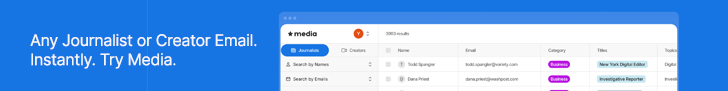
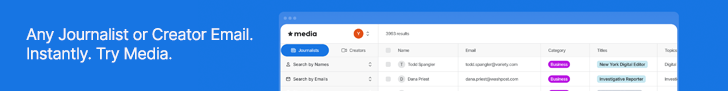
Changes

Changed region(s): [[0.0302, 0.3077, 0.3626, 0.7473]]

diff --git a/src/pages/Home.tsx b/src/pages/Home.tsx
@@ -32,7 +32,6 @@ import { OrganizationSchema, WebSiteSchema, FAQSchema } from '@/components/JsonL
 import { SponsorBanner } from '@/components/SponsorBanner';
 import { ThisWeekHighlights } from '@/components/ThisWeekHighlights';
 import mediaBanner from '@/assets/sponsors/media-banner.png';
-import roachBanner from '@/assets/sponsors/roach-banner.png';
 
 interface Product {
   id: string;
@@ -745,9 +744,8 @@ const Home = () => {
           </div>
         )}
         
-        {/* Sponsor Banners */}
-        <div className="flex flex-col items-center gap-4 pt-6">
-          {/* Media Banner */}
+        {/* Media Banner */}
+        <div className="flex flex-col items-center pt-6">
           <div className="relative">
             <a 
               href="https://trymedia.ai/" 
@@ -758,28 +756,8 @@ const Home = () => {
               <img 
                 src={mediaBanner} 
                 alt="Media - Any Journalist or Creator Email. Instantly." 
-                className="max-w-full h-auto rounded-lg shadow-sm transition-all duration-200 hover:shadow-md hover:opacity-95"
-                style={{ maxHeight: '91px' }}
-              />
-            </a>
-            <Link to="/media-kit" className="absolute -top-4 left-1/2 -translate-x-1/2 text-[10px] text-muted-foreground opacity-60 hover:opacity-100">
-              Sponsored
-            </Link>
-          </div>
-          
-          {/* Roach Banner */}
-          <div className="relative">
-            <a 
-              href="https://roachclo.com/" 
-              target="_blank" 
-              rel="noopener noreferrer"
-              className="block"
-            >
-              <img 
-                src={roachBanner} 
-                alt="Roach - Survive. Thrive. Shop Roach." 
-                className="max-w-full h-auto rounded-lg shadow-sm transition-all duration-200 hover:shadow-md hover:opacity-95"
-                style={{ maxHeight: '91px' }}
+                className="max-w-full h-auto transition-all duration-200 hover:opacity-95"
+                style={{ width: '728px', height: '91px', borderRadius: 0 }}
               />
             </a>
             <Link to="/media-kit" className="absolute -top-4 left-1/2 -translate-x-1/2 text-[10px] text-muted-foreground opacity-60 hover:opacity-100">

diff --git a/src/components/ThisWeekHighlights.tsx b/src/components/ThisWeekHighlights.tsx
@@ -11,6 +11,7 @@ import defaultProductIcon from '@/assets/default-product-icon.png';
 import { toast } from 'sonner';
 import { ProductSkeleton } from '@/components/ProductSkeleton';
 import { getWeek } from 'date-fns';
+import roachBanner from '@/assets/sponsors/roach-banner.png';
 
 interface SurfacedProduct {
   id: string;
@@ -672,6 +673,28 @@ export const ThisWeekHighlights = () => {
               View all this week's launches →
             </Button>
           </Link>
+        </div>
+        
+        {/* Roach Banner */}
+        <div className="flex flex-col items-center pt-6">
+          <div className="relative">
+            <a 
+              href="https://roachclo.com/" 
+              target="_blank" 
+              rel="noopener noreferrer"
+              className="block"
+            >
+              <img 
+                src={roachBanner} 
+                alt="Roach - Survive. Thrive. Shop Roach." 
+                className="max-w-full h-auto transition-all duration-200 hover:opacity-95"
+                style={{ width: '728px', height: '91px', borderRadius: 0 }}
+              />
+            </a>
+            <Link to="/media-kit" className="absolute -top-4 left-1/2 -translate-x-1/2 text-[10px] text-muted-foreground opacity-60 hover:opacity-100">
+              Sponsored
+            </Link>
+          </div>
         </div>
       </div>
     </section>
